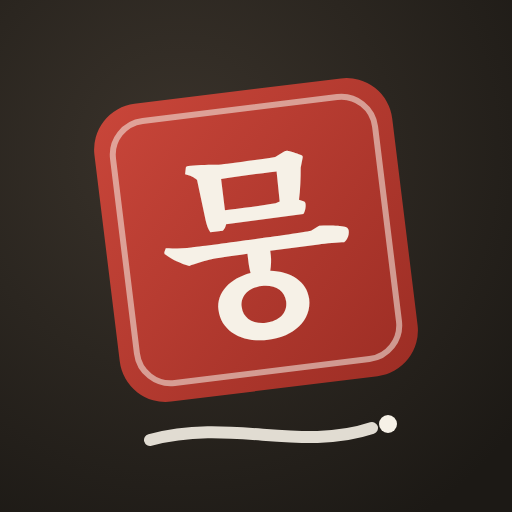
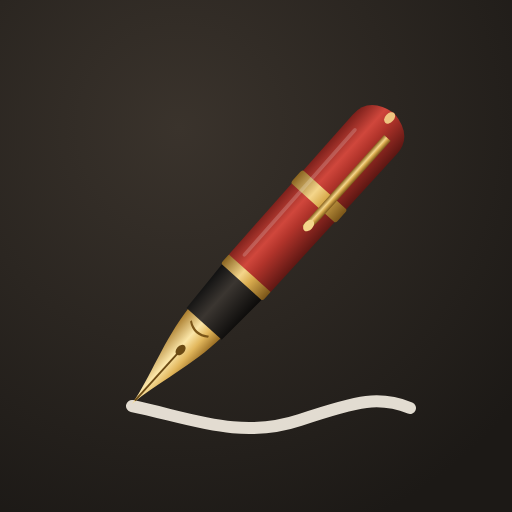
홈 화면 이름을 '내 이름+작가'로, 아이콘을 만년필로 (sw v10)
첫 화면에서 작가 이름(예: 뭉)을 적으면 홈 화면·제목·상단에 '뭉작가'로 표시.
서비스워커가 이름을 넣은 설치 정보를 돌려주고, 첫 방문엔 페이지에서 직접 만듦.

Claude-Session: https://claude.ai/code/session_01DbpK53GdhVoyu7H6odmsRh

diff --git a/index.html b/index.html
@@ -346,6 +346,26 @@ details summary{list-style:none} details summary::-webkit-details-marker{display
 "use strict";
 // [추가] 뭉작가 — 실행 환경
 const APP_NAME='뭉작가';
+/* 홈 화면 이름: 첫 화면에 적은 이름 + '작가' (예: 뭉 → 뭉작가) */
+function cleanPen(v){ v=String(v||'').replace(/\s+/g,'').replace(/작가$/,'').slice(0,4); return v; }
+function penName(){ return cleanPen(S.profile&&S.profile.penName)||'뭉'; }
+function appName(){ return penName()+'작가'; }
+function applyAppName(){
+  const pen=penName(), name=appName();
+  document.title=name;
+  const at=document.querySelector('meta[name="apple-mobile-web-app-title"]'); if(at) at.setAttribute('content',name);
+  const br=document.querySelector('header.top .brand'); if(br) br.innerHTML=esc(pen)+'<span>작가</span>';
+  const ml=document.querySelector('link[rel="manifest"]'); if(!ml) return;
+  if(navigator.serviceWorker&&navigator.serviceWorker.controller){ ml.href='manifest.webmanifest?n='+encodeURIComponent(pen); return; }
+  // 서비스워커가 아직 없을 때(첫 방문): 이 자리에서 이름을 넣은 설치 정보를 만들어 붙임
+  try{
+    const base=new URL('./',location.href).href;
+    const m={id:base, name:name+' — 나만의 문체를 짓는 글쓰기 앱', short_name:name, description:'AI가 대신 쓰지 않는, 나만의 문체를 짓는 글쓰기 창작 앱', lang:'ko', start_url:base, scope:base, display:'standalone', orientation:'portrait', background_color:'#f3ede1', theme_color:'#f3ede1',
+      icons:[{src:base+'icon-192.png',sizes:'192x192',type:'image/png'},{src:base+'icon-512.png',sizes:'512x512',type:'image/png'},{src:base+'icon-maskable-512.png',sizes:'512x512',type:'image/png',purpose:'maskable'}]};
+    if(ml.dataset.blob) URL.revokeObjectURL(ml.dataset.blob);
+    const u=URL.createObjectURL(new Blob([JSON.stringify(m)],{type:'application/manifest+json'})); ml.dataset.blob=u; ml.href=u;
+  }catch(_){}
+}
 const ARTIFACT_URL='https://claude.ai/artifact/U2Vi8L439oUit3H3it9oiv';
 const IS_PAGES=/github\.io$/.test(location.hostname)||location.protocol==='file:'||location.hostname==='localhost'||location.hostname==='127.0.0.1';
 /* ============ 공통 ============ */
@@ -1217,18 +1237,20 @@ function todayRoutine(){
 /* ---- 첫 실행 안내 ---- */
 function showOnboarding(force){
   const ob=S.profile.onboard||{goal:'debut', genres:[...LIT], minutes:15};
-  const st={goal:ob.goal, genres:new Set(ob.genres), minutes:ob.minutes};
+  const st={goal:ob.goal, genres:new Set(ob.genres), minutes:ob.minutes, pen:cleanPen(S.profile.penName)};
   const draw=(el,close)=>{
-    el.innerHTML=`<div class="grab"></div><h3>${force?'목표 설정 바꾸기':'반가워요! 먼저 세 가지만 알려 주세요'}</h3>
+    el.innerHTML=`<div class="grab"></div><h3>${force?'목표 설정 바꾸기':'반가워요! 먼저 네 가지만 알려 주세요'}</h3>
     <p class="small muted">답에 맞춰 매일의 15분 루틴과 시작 경로를 추천해 드려요. 나중에 '나의 기록' 탭에서 바꿀 수 있어요.</p>
-    <div class="field"><span>1. 지금 가장 가까운 목표</span><div style="display:flex;flex-wrap:wrap;gap:6px">${Object.entries(GOALS).map(([k,n])=>`<button class="chip ${st.goal===k?'on':''}" data-goal="${k}">${n}</button>`).join('')}</div></div>
-    <div class="field"><span>2. 쓰고 싶은 장르 (여러 개)</span><div style="display:flex;flex-wrap:wrap;gap:6px">${LIT.map(k=>`<button class="chip ${st.genres.has(k)?'on':''}" data-gen="${k}">${GENRES[k].name}</button>`).join('')}</div></div>
-    <div class="field"><span>3. 하루에 쓸 수 있는 시간</span><div style="display:flex;flex-wrap:wrap;gap:6px">${[15,30,60].map(m=>`<button class="chip ${st.minutes===m?'on':''}" data-min="${m}">${m===60?'1시간 이상':m+'분'+(m===15?' 이하':' 내외')}</button>`).join('')}</div></div>
+    <label class="field"><span>1. 작가 이름 — 홈 화면에 <b data-penprev>${esc((st.pen||'뭉')+'작가')}</b>로 저장돼요</span><input data-pen maxlength="4" placeholder="뭉" value="${esc(st.pen)}" autocomplete="off"></label>
+    <div class="field"><span>2. 지금 가장 가까운 목표</span><div style="display:flex;flex-wrap:wrap;gap:6px">${Object.entries(GOALS).map(([k,n])=>`<button class="chip ${st.goal===k?'on':''}" data-goal="${k}">${n}</button>`).join('')}</div></div>
+    <div class="field"><span>3. 쓰고 싶은 장르 (여러 개)</span><div style="display:flex;flex-wrap:wrap;gap:6px">${LIT.map(k=>`<button class="chip ${st.genres.has(k)?'on':''}" data-gen="${k}">${GENRES[k].name}</button>`).join('')}</div></div>
+    <div class="field"><span>4. 하루에 쓸 수 있는 시간</span><div style="display:flex;flex-wrap:wrap;gap:6px">${[15,30,60].map(m=>`<button class="chip ${st.minutes===m?'on':''}" data-min="${m}">${m===60?'1시간 이상':m+'분'+(m===15?' 이하':' 내외')}</button>`).join('')}</div></div>
     <button class="btn primary block" data-ok style="margin-top:14px" ${st.genres.size?'':'disabled'}>시작하기</button>`;
+    { const pi=$('[data-pen]',el), pv=$('[data-penprev]',el); pi.oninput=()=>{ st.pen=cleanPen(pi.value); pv.textContent=(st.pen||'뭉')+'작가'; }; }
     el.querySelectorAll('[data-goal]').forEach(b=>b.onclick=()=>{ st.goal=b.dataset.goal; draw(el,close); });
     el.querySelectorAll('[data-gen]').forEach(b=>b.onclick=()=>{ st.genres.has(b.dataset.gen)?st.genres.delete(b.dataset.gen):st.genres.add(b.dataset.gen); draw(el,close); });
     el.querySelectorAll('[data-min]').forEach(b=>b.onclick=()=>{ st.minutes=+b.dataset.min; draw(el,close); });
-    $('[data-ok]',el).onclick=()=>{ S.profile.onboard={goal:st.goal, genres:LIT.filter(g=>st.genres.has(g)), minutes:st.minutes, at:Date.now()}; Store.saveProfile(); close(); render();
+    $('[data-ok]',el).onclick=()=>{ S.profile.onboard={goal:st.goal, genres:LIT.filter(g=>st.genres.has(g)), minutes:st.minutes, at:Date.now()}; S.profile.penName=st.pen||'뭉'; Store.saveProfile(); applyAppName(); close(); render();
       if(!force) setTimeout(firstPathSheet,150); };
   };
   sheet('', (el,close)=>draw(el,close));
@@ -1920,7 +1942,7 @@ const PAGES_URL='https://moongzzik.github.io/moongjakga/';
 function isStandalone(){ try{ return matchMedia('(display-mode: standalone)').matches || navigator.standalone===true; }catch(e){ return false; } }
 function installGuideSheet(){
   const ua=navigator.userAgent||''; const ios=/iPhone|iPad|iPod/.test(ua); const samsung=/SamsungBrowser/.test(ua);
-  sheet(`<h3>뭉작가 앱 설치</h3><p class="small muted">홈 화면에 아이콘이 생기고, 인터넷이 없어도 열려요.</p>
+  sheet(`<h3>${esc(appName())} 앱 설치</h3><p class="small muted">홈 화면에 <b>${esc(appName())}</b> 아이콘이 생기고, 인터넷이 없어도 열려요.</p>
     <div class="rows" style="margin-top:8px">
       <div class="row-item" style="display:block"><div class="t" style="font-family:var(--serif)">${ios?'아이폰 (사파리)':'안드로이드 크롬'}</div><div class="m" style="font-size:13.5px;color:var(--ink2);margin-top:4px">${ios?'아래 공유 버튼(□↑) → <b>홈 화면에 추가</b> → 추가':'오른쪽 위 ⋮ → <b>홈 화면에 추가</b> 또는 <b>앱 설치</b> → 설치'}</div></div>
       ${samsung?'<div class="row-item" style="display:block"><div class="t" style="font-family:var(--serif)">삼성 인터넷</div><div class="m" style="font-size:13.5px;color:var(--ink2);margin-top:4px">아래 ≡ 메뉴 → <b>현재 페이지 추가</b> → 홈 화면</div></div>':''}
@@ -1937,11 +1959,11 @@ async function onInstallClick(){
     return;
   }
   const e=S.installEvt;
-  if(e){ e.prompt(); try{ const r=await e.userChoice; if(r&&r.outcome==='accepted') toast('홈 화면에 뭉작가를 추가했어요'); }catch(_){} S.installEvt=null; updateInstallBtn(); return; }
+  if(e){ e.prompt(); try{ const r=await e.userChoice; if(r&&r.outcome==='accepted') toast(`홈 화면에 ${appName()}를 추가했어요`); }catch(_){} S.installEvt=null; updateInstallBtn(); return; }
   installGuideSheet();
 }
 function updateInstallBtn(){ const b=$('#installBtn'); if(!b) return; b.hidden=isStandalone(); b.textContent=IS_PAGES?'앱 설치':'앱 받기'; }
-window.addEventListener('appinstalled',()=>{ S.installEvt=null; const b=$('#installBtn'); if(b) b.hidden=true; toast('설치됐어요. 홈 화면에서 뭉작가를 열어 보세요'); });
+window.addEventListener('appinstalled',()=>{ S.installEvt=null; const b=$('#installBtn'); if(b) b.hidden=true; toast(`설치됐어요. 홈 화면에서 ${appName()}를 열어 보세요`); });
 window.addEventListener('beforeinstallprompt',()=>setTimeout(updateInstallBtn,0));
 document.addEventListener('DOMContentLoaded',()=>{ const b=$('#installBtn'); if(b) b.onclick=onInstallClick; updateInstallBtn(); });
 
@@ -2264,6 +2286,7 @@ askAI=async function(prompt,opts={}){
 (async function start(){
   await Store.init(); await Store.load();
   { const sc=$('#storeChip'); sc.textContent = Store.mode==='db'?'계정에 저장':Store.mode==='local'?(Store.failed?'이 기기에 임시 저장':'이 기기에 저장'):'저장 안 됨'; sc.classList.toggle('warn', Store.mode!=='db'&&(!!Store.failed||Store.mode==='memory')); }
+  applyAppName(); if(navigator.serviceWorker) navigator.serviceWorker.addEventListener('controllerchange',applyAppName);
   S.tab=null; route(); getAI();
   if(!S.profile.onboard) setTimeout(()=>showOnboarding(),300);
   document.addEventListener('visibilitychange',()=>{ if(document.hidden&&S.editorCommit&&S.tab==='write'&&S.sub) S.editorCommit(); });

diff --git a/sw.js b/sw.js
@@ -1,5 +1,5 @@
 // 뭉작가 서비스워커 — 고칠 때마다 VERSION을 1씩 올리세요
-const VERSION = 'moongjakga-v9';
+const VERSION = 'moongjakga-v10';
 const CORE = ['./', './index.html', './manifest.webmanifest', './icon-192.png', './icon-512.png', './icon-maskable-512.png', './apple-touch-icon.png'];
 self.addEventListener('install', e => {
   e.waitUntil(caches.open(VERSION).then(c => c.addAll(CORE)).then(() => self.skipWaiting()));
@@ -17,6 +17,16 @@ self.addEventListener('fetch', e => {
       if (res && (res.ok || res.type === 'opaque')) { const cp = res.clone(); caches.open(VERSION).then(c => c.put(req, cp)); }
       return res;
     }).catch(() => r)));
+    return;
+  }
+  if (url.pathname.endsWith('/manifest.webmanifest') && url.searchParams.has('n')) {
+    // 홈 화면 이름: 첫 화면에 적은 이름 + '작가'
+    const pen = (url.searchParams.get('n') || '').replace(/\s+/g, '').replace(/작가$/, '').slice(0, 4) || '뭉';
+    const name = pen + '작가';
+    e.respondWith(caches.match('./manifest.webmanifest').then(r => r || fetch('./manifest.webmanifest')).then(r => r.json()).then(m => {
+      m.id = './'; m.name = name + ' — 나만의 문체를 짓는 글쓰기 앱'; m.short_name = name;
+      return new Response(JSON.stringify(m), { headers: { 'Content-Type': 'application/manifest+json; charset=utf-8' } });
+    }));
     return;
   }
   if (req.mode === 'navigate') {
